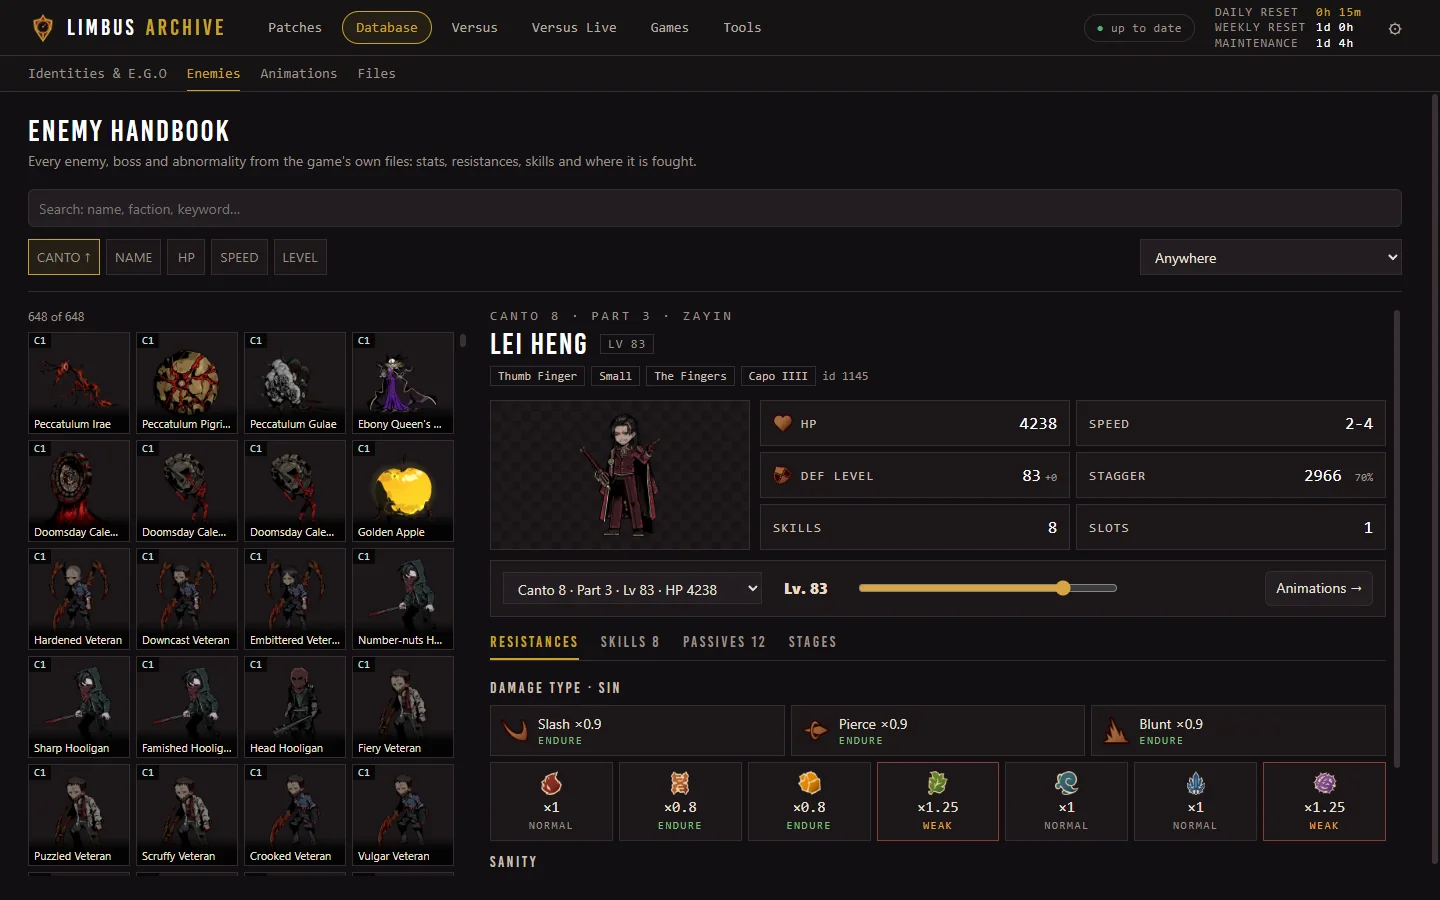
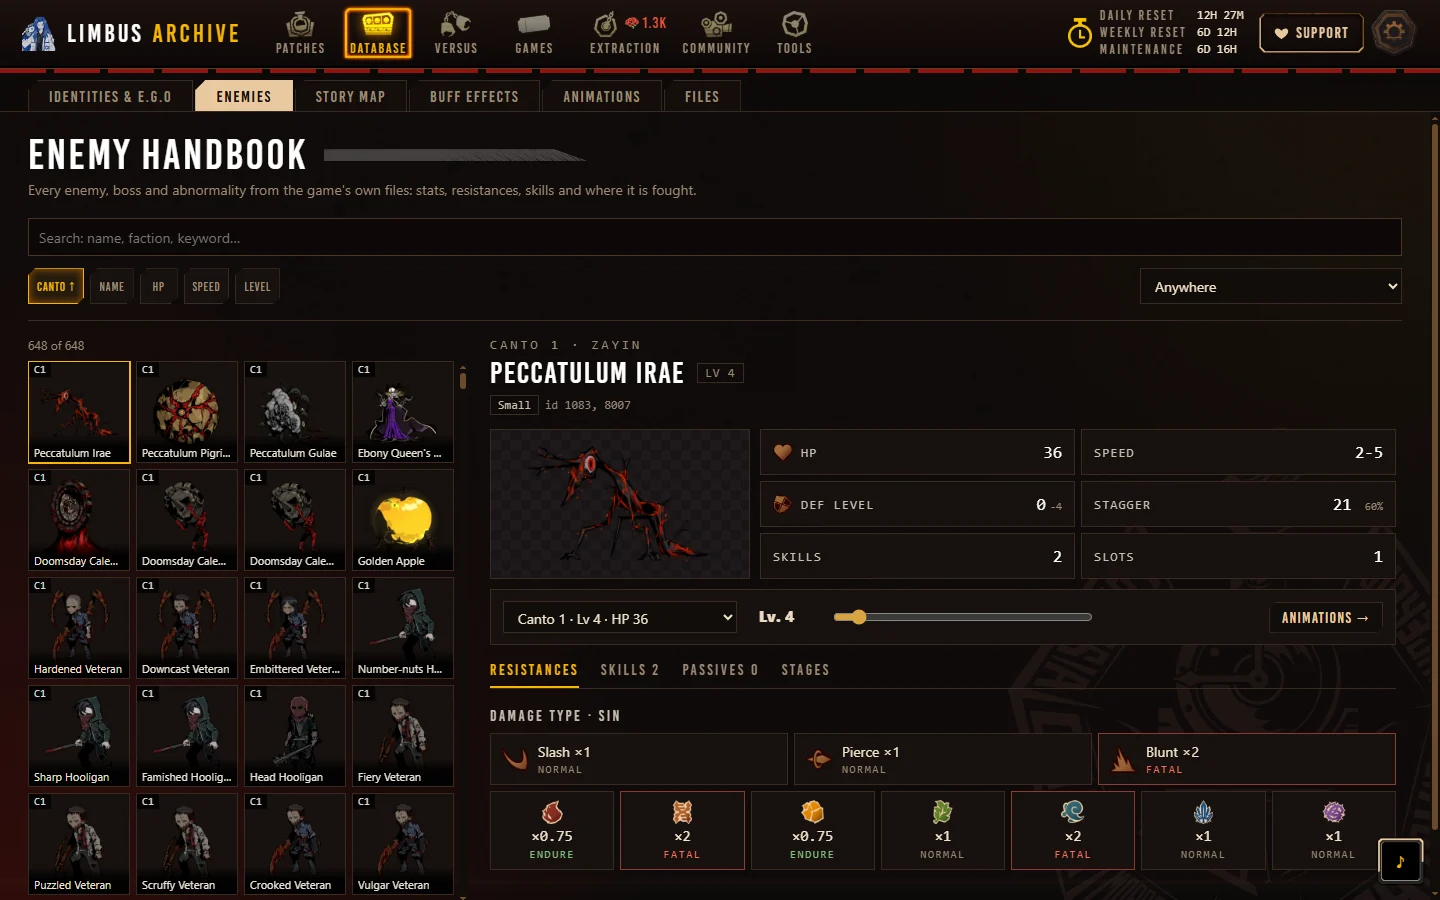
The game's own look for the whole app (0.11.37)

diff --git a/ui/skin.css b/ui/skin.css
@@ -301,3 +301,5 @@ button.primary:disabled { filter: grayscale(.8); }
 .vsw:has(.vsarena) .vsright > details { grid-column: 3; }
 .vstabbox > section > .row:has(> .vsh) { display: none; }
 .vstabbox .vsbig { margin-bottom: 8px; }
+.vsarena .vsteamside > .row { flex-wrap: wrap; gap: 5px; } .vsarena .vsteamside .vsh { flex: 1 0 100%; }
+.vsarena .vsteamside.right > .row { justify-content: flex-start; }

diff --git a/limbusdm/__init__.py b/limbusdm/__init__.py
@@ -1,4 +1,4 @@
-__version__ = "0.11.36"
+__version__ = "0.11.37"
 APP_TITLE = "Limbus Archive"
 APP_EXE = "LimbusArchive.exe"
 OLD_EXE = "LimbusDatamine.exe"  # the app's name before 0.4.0

diff --git a/README.md b/README.md
@@ -19,6 +19,9 @@ A Windows app for poking around Limbus Company's game files: patch datamining, a
 database, an enemy handbook, battle animations and skills rendered with the game's own effects,
 Versus fights, every asset of the game, a team builder and the soundtrack.
 
+The app wears the game's own look: its frames, plates, menu icons and fonts are read from your install
+when the app runs (none of them is in this repository).
+
 ## Website
 
 **[limbus.shpep.workers.dev](https://limbus.shpep.workers.dev)** is a copy of the app that runs in a browser:
@@ -101,7 +104,15 @@ Filter by buff / debuff and by who has it.
 Any Identity, E.G.O or enemy against any other on one stage: one takes the other's skill with its
 own idle and hit poses, or both clash first (their clash animations at once, as many rounds as you
 like) and the winner's skill follows. Optional HP and damage numbers, a death finale, an intro card
-and WIN, an E.G.O cut-in and battle music.
+and WIN, an E.G.O cut-in, buffs and debuffs with their effects, and battle music. Stage, music and
+options are one panel with tabs; a stage's picture is drawn by itself as you scroll the list.
+**Render the fight** makes the video, **Live** next to it plays the fight at once.
+
+**Auto Battler** (a tab of Versus): teams of up to six stand on the stage face to face and fight by
+autobattler rules: roles, cooldowns, targets. One fighter against two or more is a boss, and its
+strength is set to be fair against the team.
+
+<p align="center"><a href="docs/autobattler.webp"><img src="docs/autobattler.webp" width="760" alt="Auto Battler"></a></p>
 
 **Versus Live** plays such a fight as it happens, in the renderer's own window: press START for two random
 fighters on a random stage (or the Versus page's picks), with the fight's sounds, music, intro card and WIN.
@@ -130,7 +141,7 @@ show up as a recommended tier list; the app re-reads the guide once a week.
 
 ### Music player
 
-A small player in the corner with the game's own soundtrack, read from its sound files: battle themes first,
+A small player in the corner (folded into a square with a note until you click it) with the game's own soundtrack, read from its sound files: battle themes first,
 under their official names, with the Canto and the boss a theme belongs to. Search by track, Canto or enemy.
 
 <p align="center"><a href="docs/music.webp"><img src="docs/music.webp" width="420" alt="Music player"></a></p>
